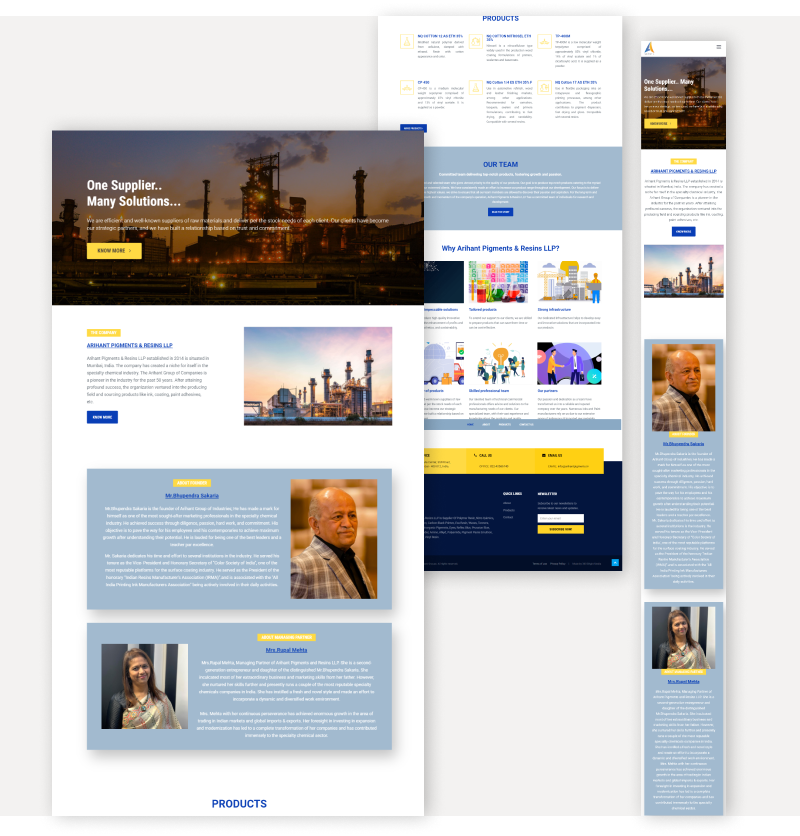
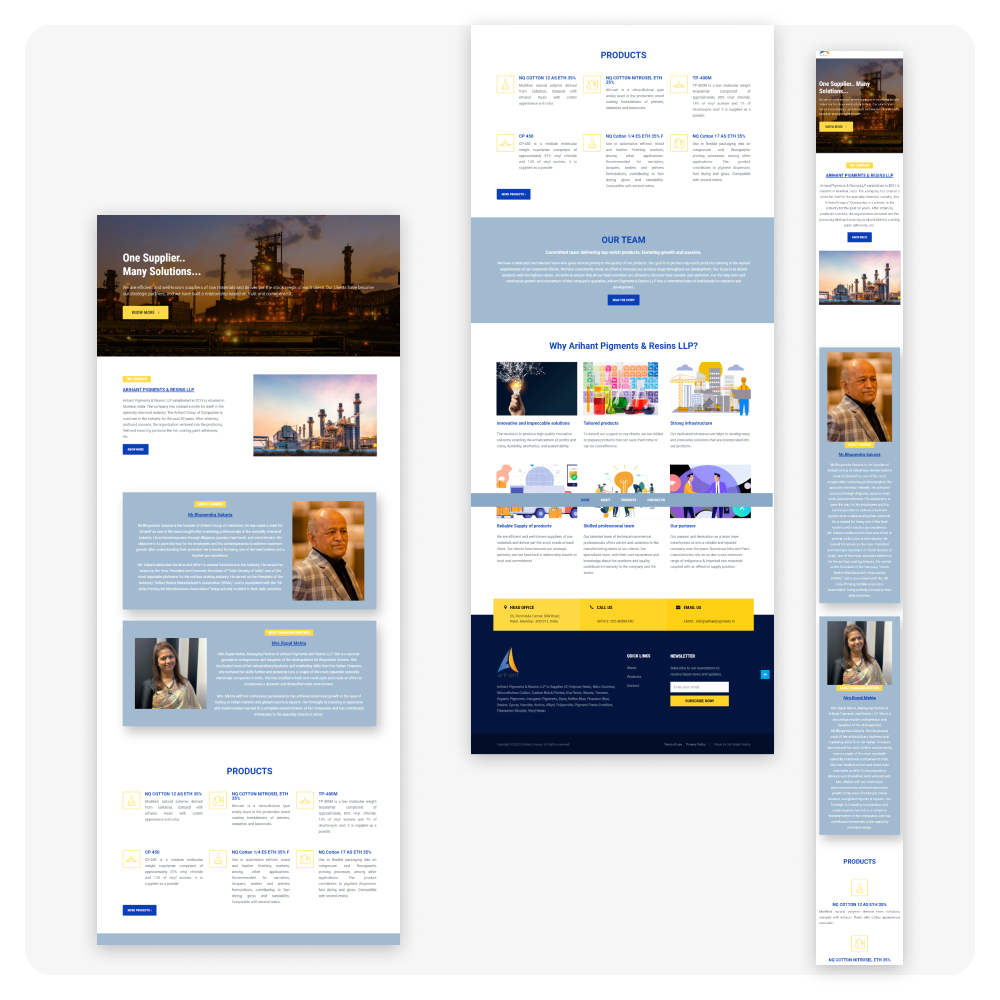
added footer description

diff --git a/src/components/projects/Projects.jsx b/src/components/projects/Projects.jsx
@@ -5,6 +5,9 @@ import { FaArrowRight } from "react-icons/fa";
 import { Swiper, SwiperSlide } from "swiper/react";
 import { Navigation, Autoplay } from "swiper/modules";
 import veselka from "../../assets/images/veselka.png";
+import arihant from "../../assets/images/arihantpigments.png";
+import mbuy from "../../assets/images/mbuy.png";
+import shiva from "../../assets/images/shivaperformance.png";
 import TechButton from "../UI/TechButton";
 import CustomCursor from "../UI/CustomCursor";
 
@@ -41,7 +44,9 @@ const Projects = () => {
   return (
     <>
       <CustomCursor cursorOverProjects={cursorOverProjects} />
-      <div className="projects  flex justify-center px-7 mt-20 md:mt-0 pb-10">
+      <div
+        className="projects  flex justify-center px-7 mt-20 md:mt-0 pb-10"
+      >
         <div className="projects__sub-container w-[100vw] relative max-w-[1600px]">
           <div className="w-full projects__title-container flex justify-between items-center mb-4 px-5">
             <h1 className="font-bold text-white text-[30px]">
@@ -111,7 +116,7 @@ const Projects = () => {
               </SwiperSlide>
               <SwiperSlide>
                 <div className="projects__slider-card flex flex-col justify-center items-end">
-                  <img src={veselka} alt="" className="" />
+                  <img src={mbuy} alt="" className="" />
                   <div className="projects__slider-card-text px-4 mt-2">
                     <h1 className="text-2xl text-white">Material Buy</h1>
                     <div className="flex flex-wrap">
@@ -137,18 +142,17 @@ const Projects = () => {
                       />
                     </div>
                     <p className="">
-                      Your One-Stop Dynamic E-Commerce Destination. Discover a
-                      world of quality materials, a seamless shopping
-                      experience, and the convenience of online commerce, all in
-                      one place. Dive into our dynamic e-commerce website today
-                      and transform your shopping journey!"
+                      Material Buy excels as a premier construction product
+                      supplier, while Svayambhu Tech specializes in crafting
+                      intuitive e-commerce platforms to serve a vast user base,
+                      numbering in the hundreds of thousands.
                     </p>
                   </div>
                 </div>
               </SwiperSlide>
               <SwiperSlide>
                 <div className="projects__slider-card flex flex-col justify-center items-center">
-                  <img src={veselka} alt="" className="" />
+                  <img src={shiva} alt="" className="" />
                   <div className="projects__slider-card-text px-4 mt-2">
                     <h1 className="text-2xl text-white">Shiva Performance</h1>
                     <div className="flex flex-wrap">
@@ -183,7 +187,7 @@ const Projects = () => {
               </SwiperSlide>
               <SwiperSlide>
                 <div className="projects__slider-card flex flex-col justify-center items-center">
-                  <img src={veselka} alt="" className="" />
+                  <img src={arihant} alt="" className="" />
                   <div className="projects__slider-card-text px-4 mt-2 ">
                     <h1 className="text-2xl text-white">Arihant Pigments</h1>
                     <div className="flex flex-wrap">

diff --git a/src/components/services/Services.jsx b/src/components/services/Services.jsx
@@ -1,4 +1,4 @@
-import React, { useState, useEffect } from "react";
+import React, { useState, useEffect, useRef } from "react";
 import service1 from "../../assets/images/service1.png";
 import app from "../../assets/images/sapp.png";
 import ecommerce from "../../assets/images/secommerce.png";
@@ -16,16 +16,56 @@ import "swiper/css";
 import "swiper/css/navigation";
 
 const Services = () => {
-  const [slidenumber, setSlideNumber] = useState(null);
+const [slidenumber, setSlideNumber] = useState(null);
+const aimlVideoRef = useRef(null);
+const arvrVideoRef = useRef(null);
+const gameVideoRef = useRef(null);
 
-  useEffect(() => {
-    setSlideNumber(2);
-  }, []);
+useEffect(() => {
+  setSlideNumber(2);
+}, []);
 
-  const handleSlideChange = (swiper) => {
-    setSlideNumber(swiper.realIndex);
-    console.log(swiper.realIndex);
-  };
+useEffect(() => {
+    if (slidenumber === 1) {
+      // Play the AIML video when slidenumber is 1
+      if (aimlVideoRef.current) {
+        aimlVideoRef.current.play();
+      }
+    } else {
+      // Pause the AIML video when slidenumber is not 1
+      if (aimlVideoRef.current) {
+        aimlVideoRef.current.pause();
+      }
+    }
+
+    if (slidenumber === 5) {
+      // Play the AIML video when slidenumber is 1
+      if (arvrVideoRef.current) {
+        arvrVideoRef.current.play();
+      }
+    } else {
+      // Pause the AIML video when slidenumber is not 1
+      if (arvrVideoRef.current) {
+        arvrVideoRef.current.pause();
+      }
+    }
+
+        if (slidenumber === 6) {
+          // Play the AIML video when slidenumber is 1
+          if (gameVideoRef.current) {
+            gameVideoRef.current.play();
+          }
+        } else {
+          // Pause the AIML video when slidenumber is not 1
+          if (gameVideoRef.current) {
+            gameVideoRef.current.pause();
+          }
+        }
+}, [slidenumber]);
+
+const handleSlideChange = (swiper) => {
+  setSlideNumber(swiper.realIndex);
+};
   return (
     <div className="services h-min-[100vh] w-[100vw] max-w-[1600px]">
       <div className="mt-[130px] servicessub w-full">
@@ -107,6 +147,7 @@ const Services = () => {
                     preload="metadata"
                     src={aiml}
                     className="relative ar_video" // Add the source directly to the video element
+                    ref={aimlVideoRef}
                   />
                 </div>
                 {/* <img src={service1} alt="" /> */}
@@ -146,6 +187,7 @@ const Services = () => {
                     preload="metadata"
                     src={ar}
                     className="relative ar_video" // Add the source directly to the video element
+                    ref={arvrVideoRef}
                   />
                 </div>
                 {/* <img src={service1} alt="" className="ar_img" /> */}
@@ -167,6 +209,7 @@ const Services = () => {
                     preload="metadata"
                     src={game}
                     className="relative ar_video" // Add the source directly to the video element
+                    ref={gameVideoRef}
                   />
                 </div>
                 {/* <img src={service1} alt="" /> */}

diff --git a/src/assets/scss/app.scss b/src/assets/scss/app.scss
@@ -9,9 +9,13 @@
   font-family: "Outfit", sans-serif;
   font-family: "Poppins", sans-serif;
 }
-body {
-  overflow-x: hidden;
+
+html{
   scroll-behavior: smooth;
+}
+body {
+  // overflow-x: hidden;
+  // scroll-behavior: smooth;
 
   @media screen and (min-width:780px) {
     cursor: none;
@@ -109,7 +113,7 @@ nav {
 nav.active {
   height: auto;
   // overflow: visible;
-  transition: all 5s ease;
+  // transition: all 5s ease;
 }
 
 .btn-primary {
@@ -121,73 +125,3 @@ nav.active {
   font-weight: 550;
   cursor: none;
 }
-
-//Hero -----------------------------------------------------------------
-
-// .hero {
-//   overflow: hidden;
-//   .carousel {
-//     .carousel-item {
-//       flex: 1;
-//       transition: transform 1s ease;
-//       transform: translateX(0%);
-
-//       .text-container {
-//         h1 {
-//           color: $purple;
-//         }
-//         p {
-//           color: $darkgray;
-//         }
-//       }
-
-//       @media screen and (max-width: 855px) {
-//         flex-direction: column-reverse;
-//         .text-container {
-//           width: 100%;
-//           padding: 20px 10px;
-//         }
-//         .svg-container {
-//           width: 100%;
-//         }
-//       }
-//     }
-//     .carousel-item.active1 {
-//       transform: translateX(-100%);
-//     }
-
-//     .carousel-item.active2 {
-//       transform: translateX(-200%);
-//     }
-
-//     .carousel-item.active3 {
-//       transform: translateX(-300%);
-//     }
-//   }
-
-//   .indicators {
-//     span {
-//       background-color: $lightgray;
-//       margin: 5px;
-//     }
-//     span.active {
-//       background-color: $orange;
-//       height: 15px;
-//       width: 15px;
-//       border: 3px solid #fff;
-//       box-shadow: 0 0 0 1px $orange;
-//       text-align: center;
-//       line-height: 15px;
-//       animation: rotateClockwise 3s linear infinite;
-//     }
-//     @keyframes rotateClockwise {
-//       0% {
-//         box-shadow: 1px 0px 0 0 $orange;
-//       }
-//       100% {
-//         transform: rotate(360deg);
-//         box-shadow: 1px 0px 0 0 $orange;
-//       }
-//     }
-//   }
-// }

diff --git a/src/components/footer/footer.jsx b/src/components/footer/footer.jsx
@@ -21,9 +21,9 @@ const footer = () => {
             <div className="logo_container w-[40%] pr-10">
               <img src={logo} alt="" className="w-[40%]" />
               <p className="text-white mt-5">
-                Lorem ipsum dolor sit amet consectetur, adipisicing elit. Quae
-                magnam iure aut aliquid molestiae, nostrum sunt ad voluptate
-                vitae deleniti.
+                SvayambhuTech: Where Innovation Knows No Boundaries. We
+                specialize in web apps, app development, e-commerce solutions,
+                and cutting-edge AR/VR games. Let's bring your vision to life
               </p>
               <div className="flex social_icons w-[45%] md:w-[28%] mt-5 items-center justify-between">
                 <div className="icons_container">

diff --git a/src/components/navbar/Navbar.jsx b/src/components/navbar/Navbar.jsx
@@ -1,11 +1,11 @@
-import React, {useState} from "react";
+import React, { useState } from "react";
 import logo from "../../assets/images/logo.png";
 
 const Navbar = () => {
-    const [showmenu, setshowMenu] = useState(false)
-    const shownavlinks = () => {
-        setshowMenu(!showmenu)
-    }
+  const [showmenu, setshowMenu] = useState(false);
+  const shownavlinks = () => {
+    setshowMenu(!showmenu);
+  };
   return (
     <>
       <nav
@@ -60,7 +60,7 @@ const Navbar = () => {
           <li className="m-2">About</li>
           <li className="m-2">Service</li>
           <li className="m-2">Projects</li>
-          <li className="m-2">Features</li>
+          {/* <li className="m-2">Features</li> */}
           <li className="m-2">Contact us</li>
         </ul>
       </nav>
